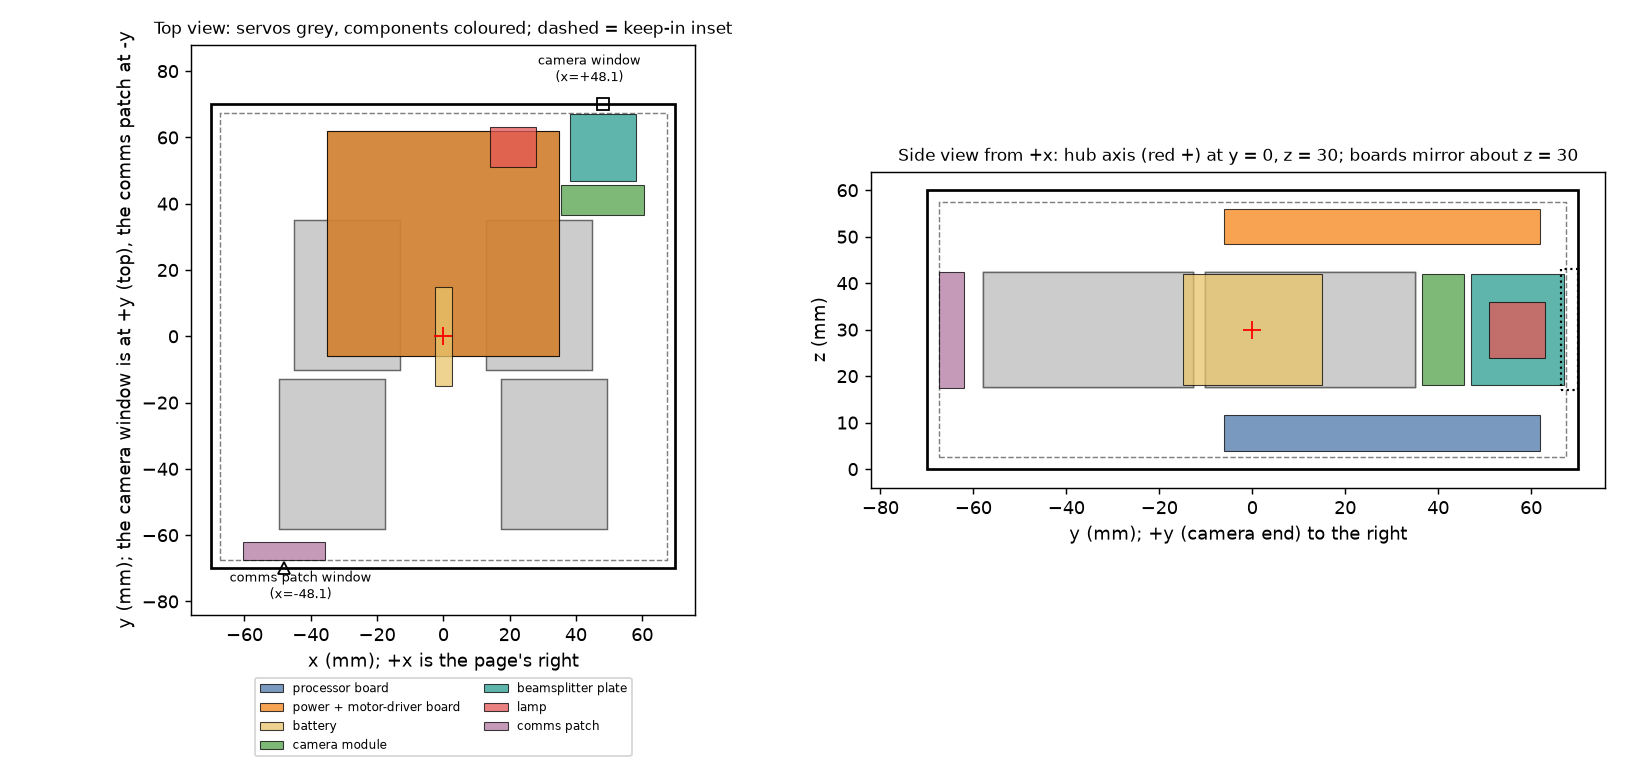
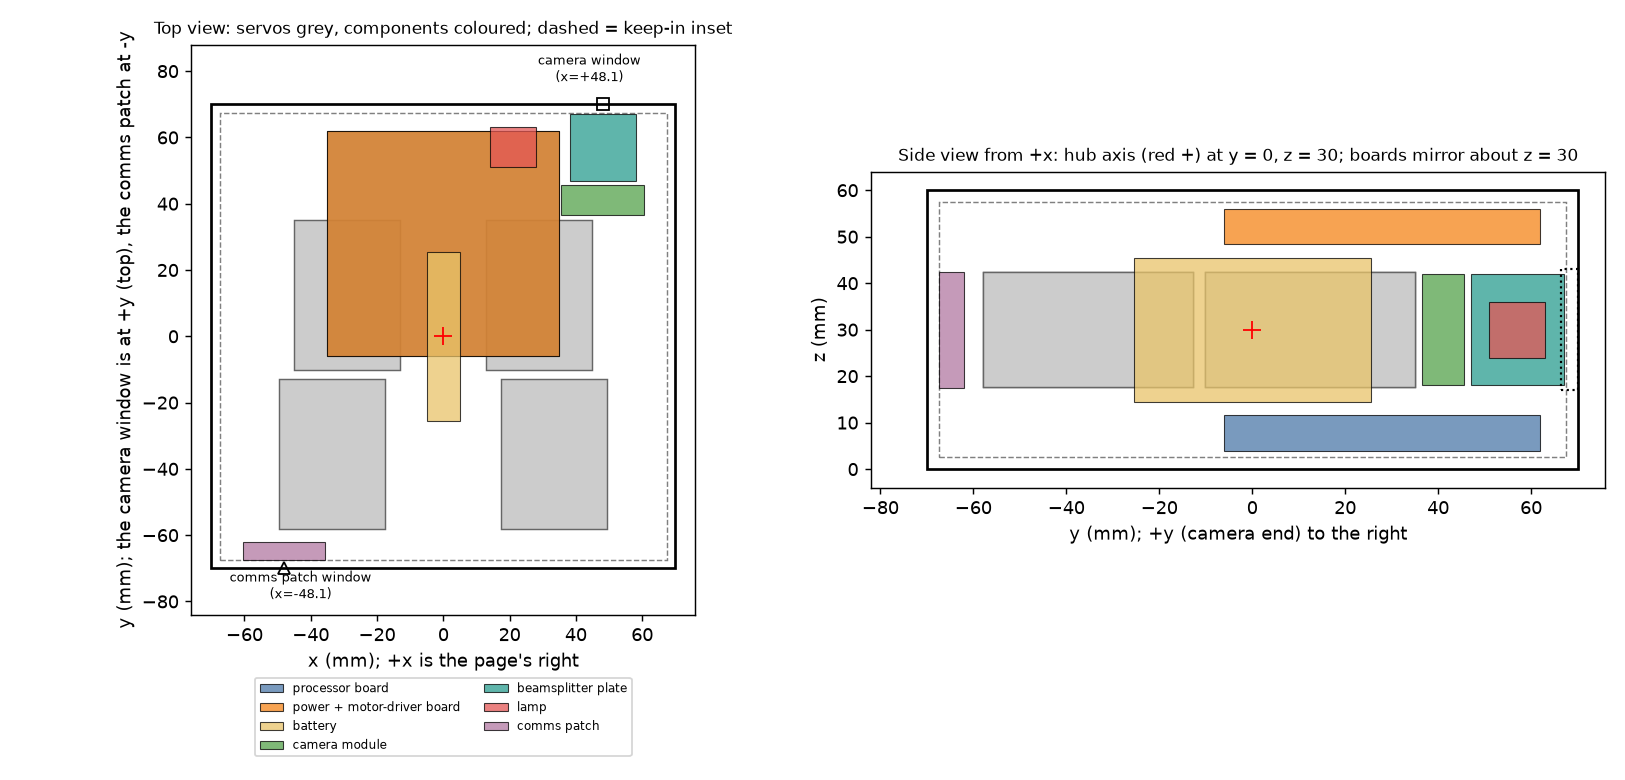
Hardware spec: battery sizing, 1S 1000 mAh cell, TPS61288 and TPS63802 rails, BQ25185 charger, back-EMF wheel counting; layout battery grown to the full gap; power budget and sim battery energy updated

Changed region(s): [[0.6769, 0.3077, 0.8615, 0.5231], [0.2462, 0.3077, 0.3077, 0.5538]]

diff --git a/sim/src/constants.ts b/sim/src/constants.ts
@@ -28,7 +28,7 @@ export const TOF = {                          // VL53L5CX class (ST datasheet vi
 };
 
 export const POWER = {                        // W, from hardware/body/power_budget.py (SRC) unless marked ASM
-  batteryWh: 1.85,                            // 500 mAh at 3.7 V ASM
+  batteryWh: 3.70,                            // 1000 mAh at 3.7 V (docs/hardware-spec.md section 4)
   idle: 0.1155,                               // PIC32 awake (20 mA ASM) + XBee 3 receiving (15 mA SRC Digi) at 3.3 V; was 0.105 from an ESP32-class dev board (docs/electronics-concept.md)
   hold: 1.44,                                 // four servos holding at 30 mA and 12 V SRC (sources disagree 6 to 60 mA)
   wheels: 0.4,                                // four wheel motors at full drive ASM

diff --git a/hardware/body/battery_sizing.py b/hardware/body/battery_sizing.py
@@ -1,0 +1,60 @@
+"""Battery sizing: what the rover draws at the worst moments, and which pack and rails follow.
+
+Run: python3 hardware/body/battery_sizing.py   (plain python, no CAD). SRC = a cited figure, ASM = my assumption.
+Replaces the placeholder's worry ("9 A at the battery"): that was the servo's locked-rotor current, not what the loads need.
+"""
+# ---- strut servo (Feetech STS3215, 12 V variant): SRC listings, docs/hardware-spec.md ----
+V_RATED, I_STALL, T_STALL = 12.0, 2.7, 30 * 0.0980665      # V, A, N.m (30 kg.cm locked rotor)
+R = V_RATED / I_STALL                                        # ohm, winding plus drive (ASM: stall current = V/R)
+KT = T_STALL / I_STALL                                       # N.m per A at the output (ASM: linear, gearbox losses included)
+print(f"servo: R = {R:.2f} ohm, output torque constant {KT:.2f} N.m/A; hold or push current = torque / {KT:.2f}")
+
+# ---- strut loads, 1.0 kg Earth design mass, no margin (docs/drivetrain-spec.md, chassis simulation) ----
+HOLD, PUSH = 0.172, 0.343        # N.m per strut: arms horizontal; whole weight on one pair (per strut of that pair)
+W_MOVE = 10 * 2 * 3.14159 / 60   # rad/s while a strut moves under load (ASM: 10 rpm)
+
+def servo_w(torque, omega, idle_a, v_supply):
+    """Battery-side watts for one servo: winding loss + mechanical output + idle (ASM: idle current scales with the supply voltage)."""
+    i = torque / KT
+    return i * i * R + torque * omega + idle_a * v_supply
+
+# ---- everything else (docs/body-redesign.md, power_budget.py): W ----
+CTRL_RX, RADIO_TX_EXTRA = 0.1155, 0.0825
+CAMERA, LAMP, WHEELS = 0.3, 0.2, 0.4       # ASM
+
+def total(case, margin, idle_a, v_servo):
+    base = CTRL_RX + RADIO_TX_EXTRA
+    if case == "hold (driving)":      return base + CAMERA + WHEELS + 4 * servo_w(HOLD * margin, 0, idle_a, v_servo)
+    if case == "pose one strut":      return base + CAMERA + servo_w(HOLD * margin, W_MOVE, idle_a, v_servo) + 3 * servo_w(HOLD * margin, 0, idle_a, v_servo)
+    if case == "self-right (push)":   return base + 2 * servo_w(PUSH * margin, W_MOVE, idle_a, v_servo) + 2 * servo_w(HOLD * margin, 0, idle_a, v_servo)
+    raise ValueError(case)
+
+CASES = ["hold (driving)", "pose one strut", "self-right (push)"]
+print("\nbattery-side load in watts, before converter loss (servos at 12 V, idle 6 / 30 / 60 mA):")
+print(f"{'':20s}" + "".join(f"{f'x{m} idle {int(ia*1000)}mA':>18s}" for m in (1, 2) for ia in (0.006, 0.030, 0.060)))
+for c in CASES:
+    print(f"{c:20s}" + "".join(f"{total(c, m, ia, 12.0):18.2f}" for m in (1, 2) for ia in (0.006, 0.030, 0.060)))
+
+# ---- options: pack, servo supply, charger ----
+EFF = 0.85            # ASM: boost or buck converter efficiency
+OPTS = [  # name, pack volts nominal / minimum, servo supply volts, mAh
+    ("1S 500 mAh, servos on 12 V boost", 3.7, 3.0, 12.0, 500),
+    ("1S 1000 mAh, servos on 12 V boost", 3.7, 3.0, 12.0, 1000),
+    ("1S 1000 mAh, servos on 7.4 V boost", 3.7, 3.0, 7.4, 1000),
+    ("2S 500 mAh, servos straight off the pack", 7.4, 6.0, 7.4, 500),
+]
+print("\npack options, worst realistic case (self-right at x2 margin, idle 30 mA), then driving hold at x1:")
+print(f"{'option':44s}{'Wh':>6s}{'peak W':>8s}{'peak A':>8s}{'C-rate':>8s}{'hold W':>8s}{'hours':>7s}")
+for name, vn, vmin, vs, mah in OPTS:
+    wh = vn * mah / 1000
+    conv = EFF if vs != vn else 0.95        # 2S straight to servos: only the other rails convert (ASM 0.95 overall)
+    peak_w = total("self-right (push)", 2, 0.030, vs) / conv
+    peak_a = peak_w / vmin
+    hold_w = total("hold (driving)", 1, 0.030, vs) / conv
+    print(f"{name:44s}{wh:6.2f}{peak_w:8.1f}{peak_a:8.2f}{peak_a / (mah / 1000):8.1f}{hold_w:8.2f}{wh / hold_w:7.2f}")
+
+# ---- what fits in the battery bay (layout.py: x +-2.5 y +-15 z 18..42 as a placeholder; the gap between the servo pairs is wider) ----
+ED = 400.0  # Wh/L, ASM: small Li-ion or LiPo pouch cells, volumetric, with their own wrap and tabs (memory, unchecked)
+for label, dx in (("placeholder box 5 x 30 x 24 mm", 5.0), ("full 16 mm gap, 16 x 30 x 24 mm", 16.0)):
+    v = dx * 30 * 24 / 1000
+    print(f"bay {label}: {v:.1f} cm3 -> about {ED * v / 1000:.2f} Wh ({ED * v / 1000 / 3.7 * 1000:.0f} mAh at 3.7 V)")

diff --git a/hardware/body/layout.py b/hardware/body/layout.py
@@ -124,7 +124,7 @@ END_CELL_X = 70.0 - (2 * END_GAP + END_HOLE_D + END_POCKET_W / 2)   # body x of 
 comps = {  # name: (mass g, (x0, x1, y0, y1, z0, z1), note, optional (x, y, z) of the centre of mass if not the box centre)
     "processor board (lower lid module)":   (20.0, (-35, 35, -6, 62, 4, 11.6),      "70 x 68 x 7.6 mm placeholder, rides on the bottom lid", None),
     "power + motor-driver board (upper lid module)": (20.0, (-35, 35, -6, 62, 48.4, 56.0), "mirror of the lower board about z = 30, rides on the top lid", None),
-    "battery (500 mAh class, 1S)":          (12.0, (-2.5, 2.5, -15, 15, 18, 42),    "in the 16 mm gap between the servo pairs; the servos and wheel motors need 12 V and 6 V rails (boost) or a 2S pack", None),
+    "battery (1S 1000 mAh, 25C class)":     (28.5, (-5.0, 5.0, -25.5, 25.5, 14.5, 45.5), "Overlander SKU 2809 class pouch, about 50 x 31 x 9 mm and 28 to 28.5 g (retailer listings differ), lying in the 16 mm gap between the servo pairs, thickness along x; no protection circuit assumed (it goes on the power board); docs/hardware-spec.md section 4", None),
     "camera module":                        (12.0, (WIN_X - 12.5, WIN_X + 12.5, 36.5, 45.5, WIN_Z - 12, WIN_Z + 12), "25 x 24 x 9 mm, looking +y through the beamsplitter", None),
     "beamsplitter plate, 45 degrees":       (3.0,  (WIN_X - 10, WIN_X + 10, 47, 67, WIN_Z - 12, WIN_Z + 12), "28 x 24 x 1.5 mm glass plate at 45 degrees; box is its bounding volume. A 25 mm cube would be about 39 g (my estimate)", None),
     "lamp (LED and lens), shines +x onto the plate": (5.0, (14, 28, 51, 63, WIN_Z - 6, WIN_Z + 6), "on the body-centre side of the plate, which reflects it toward +y and out of the window", None),

diff --git a/hardware/body/power_budget.py b/hardware/body/power_budget.py
@@ -61,8 +61,8 @@ for n, p in solar.items():
     print(f"  {n:44s}" + "".join(f"{p - w:9.3f}" for w in scen.values()))
 
 # ---- battery ----
-BATT_WH = 0.5 * 3.7           # a 500 mAh single cell, ASM
-print(f"\nbattery {BATT_WH:.2f} Wh (500 mAh at 3.7 V, ASM; about 12 g): runtime on D {BATT_WH / scen['D driving: wheels + controller + radio + camera, servos holding'] * 60:.0f} min, on C {BATT_WH / scen['C camera + radio streaming + lamp'] * 60:.0f} min, "
+BATT_WH = 1.0 * 3.7           # a 1000 mAh single cell, 3.7 V (Overlander SKU 2809 class, docs/hardware-spec.md section 4)
+print(f"\nbattery {BATT_WH:.2f} Wh (1000 mAh at 3.7 V; about 28.5 g): runtime on D {BATT_WH / scen['D driving: wheels + controller + radio + camera, servos holding'] * 60:.0f} min, on C {BATT_WH / scen['C camera + radio streaming + lamp'] * 60:.0f} min, "
       f"on B {BATT_WH / scen['B controller + radio idle']:.0f} h")
 ind = solar["indoors, 500 lux LED, a-Si (10 uW/cm2)"]
 print(f"indoors the lit face gives {ind * 1000:.2f} mW: that is {ind / scen['B controller + radio idle'] * 100:.1f}% of scenario B and {ind * 24:.3f} Wh a day ({ind * 24 / BATT_WH * 100:.1f}% of the battery).")

diff --git a/docs/hardware-spec.md b/docs/hardware-spec.md
@@ -1,0 +1,87 @@
+# Hardware specification: what is chosen, what is working, what is open
+
+Started 2026-11-13. Goal (owner, 2026-11-13): specify as much of the rover's own hardware as possible. Nothing is ordered, and purchasing is deferred indefinitely (owner), so every part here is a paper choice.
+
+Tags: **owner** = decided by the owner; **working** = my recommendation, accepted by the owner as the working choice; **verified** = figure read from a datasheet or listing (source named); **assumed** = my estimate or memory, unchecked. The old placeholders in `hardware/body/layout.py` still carry assumed sizes and masses.
+
+## 1. Chosen (owner or working)
+
+| Subsystem | Part | Tag | Notes |
+|---|---|---|---|
+| Controller | Microchip PIC32MX250F128B | owner (family), figures assumed | about 20 mA at 40 MHz (family summary scaled by me, not the full datasheet table). |
+| Radio | Digi XBee 3 802.15.4, non-PRO, U.FL (XB3-24AUM-J) | owner | 40 mA transmit at +8 dBm, 15 mA receive, 2 uA power-down (not from the full datasheet table). Not ordered. |
+| Antenna | Taoglas WPC.25A.07.0150C patch, 25 x 25 x 5.5 mm | owner | Behind a flush 27 mm square RF window in the -y face. Not ordered. |
+| Strut servos (4) | Feetech STS3215, 12 V variant (C018 or C047) | owner | 30 kg.cm stall (verified, [Core Electronics datasheet](https://core-electronics.com.au/attachments/uploads/sts3215-smart-servo-datasheet-translated.pdf)); 2.7 A stall and 180 mA no-load at 12 V; 45.2 x 24.7 x 35 mm; about 55 g; 12-bit magnetic encoder with position, load, current and temperature feedback ([listing](https://servodatabase.com/servo/feetech/sts3215)). Listings disagree on sub-model codes, so check the exact code at purchase. |
+| Wheel motors (4) | Pololu #3068 gearmotor, 10 x 12 x 25 mm | owner | No encoder. See 2. |
+| Solar cells | Anysolar IXOLAR: 6 x SM940K09L, 2 x SM401K08TF, 1 x SM531K08TFS per lid; four SM940K09L per end face | owner | Each part has Vmpp about 4.5 to 5 V (SM940K09L 5.02 V, 36.6 mA; SM531K08TFS 4.46 V, 205 mA; `docs/body-redesign.md`, preliminary datasheets). |
+| Charger | **TI BQ25185**, 1-cell, 1 A linear charger with power path | working (2026-11-13) | See 3. |
+| Wheel counting | **Back-EMF counting** | owner (2026-11-13) | See 2. |
+| Battery cell | **1S LiPo, 1000 mAh, 25C class: Overlander SKU 2809** (retailer listings: 3.7 V, 25C constant and 50C burst; about 48 x 30 x 9 mm and 28.5 g, or 50 x 31 x 9 mm and 28 g) | working (2026-11-13) | See 4. Datasheet not retrieved (Overlander's pages returned 404); protection circuit not confirmed, so assume none. |
+| Servo and wheel rail | **TI TPS61288** boost to about 7.4 V | working (2026-11-13) | See 4. |
+| Logic rail | **TI TPS63802** buck-boost to 3.3 V | working (2026-11-13) | See 4. |
+
+## 2. Wheel counting: back-EMF (owner, 2026-11-13)
+
+The wheel motors carry no encoders, and there is no room for one in the 10 mm motor envelope, so wheel travel is counted from the motor's back-EMF.
+
+- **Method (assumed, to be worked out):** the H-bridge briefly opens (a short coast gap each PWM period), the controller reads the motor terminal voltage, and the speed follows from it (EMF is proportional to speed). Counts come from integrating speed over time.
+- **Consequences to model (assumed):** poor accuracy at low speed and near stall, a direction sign taken from the drive command, and drift from the motor constant changing with temperature and battery sag. This is odometry error the sim does not yet have (open item in the handover: wheel slip and scale errors). When the sim gets them, back-EMF counting should be a separate, larger error than an encoder would give.
+- **Needs from hardware:** an ADC channel per motor (the PIC32MX250 has 10-bit ADC channels; the count needed is the open pin-allocation question) or a bridge with a sense output.
+- **Era fit:** the period's hobby and academic robots (Handy Board class) counted wheels with cheap sensors or inferred speed from motor current. Back-EMF is in that spirit.
+
+## 3. Charger: TI BQ25185 (working, 2026-11-13)
+
+- **What it is (verified from TI's listings):** BQ25185 1-cell, 1 A standalone linear battery charger with power path, factory mode and battery-tracking VINDPM; input 3.0 to 18 V (25 V tolerant); charge current 5 mA to 1 A set by the ISET pin; input current limit 100, 500 or 1100 mA set by the ILIM/VSET pin; system output up to 3.125 A, regulated at 4.5 V; VINDPM tracks the battery with a 330 mV offset when VBAT is above 3.5 V ([TI datasheet](https://focus.ti.com/document-viewer/bq25185/datasheet), [product page](https://ti.com/product/BQ25185)).
+- **Cell wiring (my proposal):** put all nine cell parts of both lids in parallel, one rail of about 4.5 to 5 V, behind a diode per lid so that a shaded lid does not load a lit one. The SM531K08TFS (4.46 V) will pull the 5.02 V parts down slightly; accepted.
+- **Why this part (my reasoning):** the input voltage regulation backs the charger off in dim light instead of collapsing the cell voltage, which is a crude maximum-power-point control; a lid is about 3 W in full sun (about 0.6 A at 5 V, my estimate from the datasheet figures) and tens of mW indoors, inside the 1 A limit; it needs no inductor.
+- **Rejected:** BQ25570 (output at most about 110 mA, built for a single small cell; [datasheet](https://cdn.sparkfun.com/assets/a/a/9/0/8/bq25570_Datasheet.pdf)); BQ24074 as the fallback (1.5 A; its input regulation threshold is not battery-tracking; [datasheet](https://www.ti.com/lit/gpn/bq24074)).
+- **Not verified:** solar and MPPT behaviour in the full datasheet (SLUSF65), the package size (my "2 x 2 mm" was from memory), and the minimum useful input. A linear charger from 5 V to a 3.7 V battery wastes about a quarter of the power as heat (my arithmetic).
+
+## 4. Battery sizing (`hardware/body/battery_sizing.py`, 2026-11-13)
+
+**Correction to my earlier statement.** I said a 1S 500 mAh cell could not feed the servos because the STS3215 draws 2.7 A at 12 V, "about 9 A at the battery". That was the locked-rotor current, which the loads never need: the strut loads (172 mN.m to hold, 343 mN.m to push with a pair, `docs/drivetrain-spec.md`) are about 6 to 12% of the 2.94 N.m stall torque, so the servo current is about 0.16 to 0.32 A per servo (torque / 1.09 N.m per A, assuming linear torque and current, an assumption), and the battery supplies the winding loss, not V times that current. The firmware must still limit servo torque so that a jam cannot reach the stall current.
+
+**Result (my model, assumed figures noted in the script):** battery-side load, before converter loss:
+
+| Case | x1 load margin | x2 load margin (idle 30 mA) |
+|---|---|---|
+| Driving, struts holding (wheels, camera, controller, radio) | 1.6 to 4.2 W | 4.1 W |
+| Posing one strut | 1.4 to 4.0 W | 4.1 W |
+| Self-righting (one pair pushing, two holding) | 2.3 to 4.9 W | 7.5 W |
+
+The range in the x1 column is the servo idle current, which the sources disagree on: 6 mA (Feetech datasheet, machine-translated; [servodatabase](https://servodatabase.com/servo/feetech/sts3215) 60 mA) or 30 mA ([DFRobot](https://www.dfrobot.com/product-2962.html)). **Four servos idling cost 0.3 W at 6 mA and 2.9 W at 60 mA, so the idle current, not the lifting, sets the running power.** It is the first thing to measure when hardware exists, and two firmware levers exist: torque off between moves (if the 345:1 gearing holds a pose unpowered, unverified) and a lower supply voltage.
+
+**Options at the worst realistic case (self-right at x2 margin, idle 30 mA, 85% converters):**
+
+| Option | Energy | Peak at the pack | C-rate | Driving hours |
+|---|---|---|---|---|
+| 1S 500 mAh, servos on 12 V boost | 1.85 Wh | 2.9 A | 5.9 C | 0.6 |
+| 1S 1000 mAh, servos on 12 V boost | 3.70 Wh | 2.9 A | 2.9 C | 1.1 |
+| 1S 1000 mAh, servos on 7.4 V boost | 3.70 Wh | 2.7 A | 2.7 C | 1.4 |
+| 2S 500 mAh, servos straight off the pack | 3.70 Wh | 1.2 A | 2.4 C | 1.6 |
+
+**Room (assumed 400 Wh/L pouch cell, from memory):** the placeholder bay (5 x 30 x 24 mm) holds about 1.4 Wh (390 mAh), too small; the whole 16 mm gap between the servo pairs (16 x 30 x 24 mm) holds about 4.6 Wh (1250 mAh at 3.7 V). The battery placeholder in `layout.py` should grow to that gap.
+
+**Working recommendation (mine, awaiting the owner's word):**
+- **1S, about 1000 mAh, 3C or better, filling the 16 mm gap**, in place of the 12 g, 500 mAh placeholder (about 20 g; to be settled when a real cell is chosen).
+- **One boost converter to about 7.4 V for the servos and wheel drivers.** The STS3215's listed range is 4 to 14 V, so 12 V is not needed; at 7.4 V stall torque is about 1.8 N.m (my scaling, 2.6 times the largest need with margin) and speed about 60% of the 12 V figure (to be checked against the posing time).
+- **A 3.3 V buck-boost for the logic** (a 1S pack falls to 3.0 V, too low for an LDO at 3.3 V).
+- **The BQ25185 stays** as the charger (1S, 1 A), so the cell wiring in section 3 stands.
+- **2S rejected for now:** it would halve the peak pack current and drop the servo boost, but the 5 V cell string cannot charge a 2S pack without a boost-charger, which is more parts than the one boost it saves.
+- **Not checked:** the wheel motors' supply voltage (the docs give their no-load current at 6 V; they may run straight from the 1S pack or from the 7.4 V rail through PWM), and which 1S cell supplies 3C in this size.
+**Picks (2026-11-13, working choices; figures are from TI's pages and retailer listings, not the full datasheets):**
+- **Cell: Overlander SKU 2809, 1S 1000 mAh, 25C constant and 50C burst.** The 25C rating is far more than the 2.7 A (2.7C) worst case needs; the point is that a small cell of this kind exists at 1000 mAh with real discharge headroom. It lies in the 16 mm gap (10 x 51 x 31 mm box in `layout.py`, thickness along x), 28.5 g instead of the 12 g placeholder: **the body contents are now over the 386 g budget by 51 g** (was 35 g); the budget is deferred (owner). **Rejected:** the DNK602272 (74 x 22 x 6 mm, 16.7 g, 1000 mAh, with a protection circuit) because its sheet gives only 1C maximum continuous (1 A) and 3C for 10 ms, and its protection trips at 3 to 5 A ([DNK sheet](https://www.dnkpower.com/wp-content/uploads/2023/11/DNK602272-3.7V-1000mAh-Lipo-Battery-Specification.pdf)); our worst case is 2.7 A for self-righting and about 1.4 A at the unmargined load. A cell with a protection circuit and a higher rate is the thing to look for if a cell without protection is unwelcome. **Needed:** a protection circuit (over-discharge, over-current, short) on the power board; the cell is assumed to have none. Capacity check: 1.0 Ah at 3.7 V is 3.7 Wh, about 95 min of driving (`power_budget.py`, scenario D).
+- **Servo and wheel rail: TPS61288** (TI, [product page](https://ti.com/product/TPS61288)): input 2.0 to 18 V with 2.4 V minimum start-up, output 4.5 to 18 V, 15 A peak switch current limit, 110 uA typical quiescent current into VOUT, 2.1 uA maximum shutdown current, PFM at light load, VQFN-HR about 3 x 2 mm (the page also says 2.5 x 3.0 mm), active. At 7.4 V and 1.2 A (8.9 W) the pack side carries about 3.5 A at 3.0 V and 85% (my arithmetic), inside the switch limit. **Not confirmed:** its load disconnect (the page does not mention one: with the converter off, the input still feeds the output through the inductor and diode path, so the servos need a load switch or the converter must be enabled only when moving, to be settled in the schematic) and its maximum output current. Rejected: TPS61022 and TPS61099 (output limited to 5.5 V; [TPS61022](https://ti.com/document-viewer/TPS61022/datasheet), [TPS61099](https://www.ti.com/product/tps61099)); TPS61093 (1.6 to 6 V input, up to 17 V output, but a small-current part and I did not confirm its current limit).
+- **Logic rail: TPS63802** (TI, [datasheet](https://ti.com/lit/pdf/SLVSEU9)): 1.3 to 5.5 V input (1.8 V to start), 2 A at 3.3 V for inputs of 2.3 V and up, 11 uA quiescent current, 10-pin VSON-HR (3.0 x 2.0 mm by one page, 1.4 x 2.3 mm by another). A pack down to 3.0 V is inside its range. The 3.3 V load is about 0.3 to 0.45 A (controller, radio, camera, ToF; my sum), so 2 A is generous; **the alternative is the TPS63900** (400 mA at 3.3 V, 75 nA quiescent current, 2.5 x 2.5 mm; [page](https://www.ti.com.cn/lit/gpn/TPS63900)) if the keep-alive tier of `docs/body-redesign.md` wants a very-low-quiescent rail, with the 3.3 V loads that exceed 400 mA moved to a second converter.
+- **Changed with the cell:** `power_budget.py` and the sim's `batteryWh` (1.85 to 3.70 Wh; 21 sim checks pass).
+
+## 5. Still to specify (queue, in order)
+
+1. Ranging sensor: **ST VL53L5CX** is the candidate (verified, [datasheet](https://cdn.sparkfun.com/assets/6/e/3/0/6/vl53l5cx-datasheet.pdf): 63 degree diagonal field, 6.4 x 3.0 x 1.5 mm, 15 Hz maximum at 8 x 8 and 60 Hz at 4 x 4; about 100 mA typical and 150 mA peak on the [Pololu carrier](https://www.pololu.com/product/3417), not the bare chip). Mount high on the camera end face (sim finding).
+2. Inertial sensor: **TDK ICM-42688-P** is the candidate (verified, [TDK](https://invensense.tdk.com/products/icm-42688-p/): 2.8 mdps/rtHz gyro, 70 ug/rtHz accelerometer, 0.88 mA, 2.5 x 3 x 0.91 mm). The comparison with Bosch BMI270 and ST LSM6DSO rests on one secondary table that does not name the parts.
+3. Battery cell, 7.4 V boost converter and 3.3 V buck-boost (recommendation in 4; part numbers still to find).
+4. Wheel motor drivers (four small H-bridges, with the back-EMF sampling of 2) and the servo bus interface (half duplex).
+5. Operator-side radio (a second XBee 3 on a USB board).
+6. PIC32 pin and peripheral allocation (UART for the servo bus, UART for the radio, I2C for the sensors, PWM and ADC for the drivers).
+7. Mechanical: wheel and spindle-tube retention, hub gear teeth and servo mounting, seals, O-rings and lid screws, wiring feedthroughs.
+8. Optional: the Lighthouse receiver amplifier (needs the SM940K09L cell layout from Anysolar, `docs/positioning.md`).
